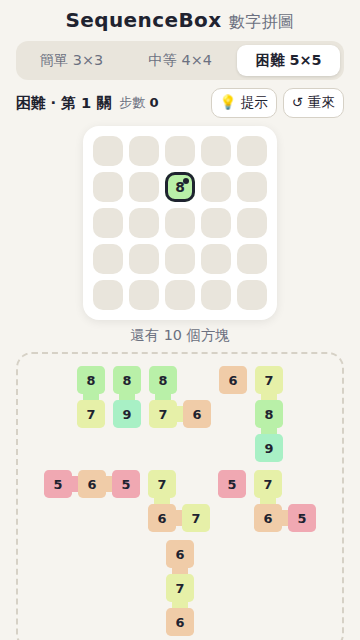
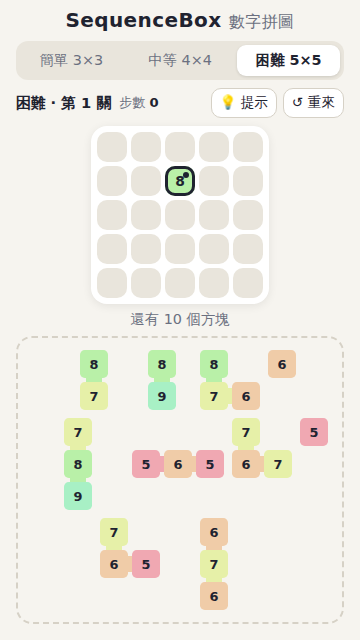
Let the board shrink further so all tray pieces fit on screen
Lower the minimum board cell from 30px to 24px, and once cells drop
below 40px also tighten the board gap (6 -> 4px) and padding (10 -> 6px).

Claude-Session: https://claude.ai/code/session_01JCX4xuQsM6Wj13xzShLSBX

Changed region(s): [[0.1222, 0.1875, 0.9167, 1.0], [0.9472, 0.5625, 0.9778, 1.0], [0.0306, 0.5625, 0.0611, 0.9688]]

diff --git a/js/main.js b/js/main.js
@@ -26,10 +26,16 @@
 
   let game = null;
 
-  const MIN_BOARD_CELL = 30;
+  const MIN_BOARD_CELL = 24;
+  const COMPACT_BELOW = 40; // 棋盤格子小於這個大小時，間距和留白也一起縮小
 
   function setCell(cell) {
     document.documentElement.style.setProperty('--cell', `${cell}px`);
+  }
+
+  function setSpacing(gap, pad) {
+    document.documentElement.style.setProperty('--gap', `${gap}px`);
+    document.documentElement.style.setProperty('--bpad', `${pad}px`);
   }
 
   // 依棋盤大小與螢幕寬度決定每格大小
@@ -39,7 +45,7 @@
     const avail = Math.min(window.innerWidth, 520) - 32 - pad * 2;
     const cell = Math.max(MIN_BOARD_CELL, Math.min(68, Math.floor((avail - gap * (n - 1)) / n)));
     setCell(cell);
-    document.documentElement.style.setProperty('--gap', `${gap}px`);
+    setSpacing(gap, pad);
     return cell;
   }
 
@@ -49,6 +55,7 @@
     while (!game.fitTray() && cell > MIN_BOARD_CELL) {
       cell = Math.max(MIN_BOARD_CELL, cell - 2);
       setCell(cell);
+      if (cell < COMPACT_BELOW) setSpacing(4, 6);
     }
   }
 

diff --git a/css/style.css b/css/style.css
@@ -124,7 +124,7 @@ button {
 .board {
   display: grid;
   gap: var(--gap);
-  padding: 10px;
+  padding: var(--bpad, 10px);
   width: max-content;
   margin: 0 auto;
   background: var(--panel);
